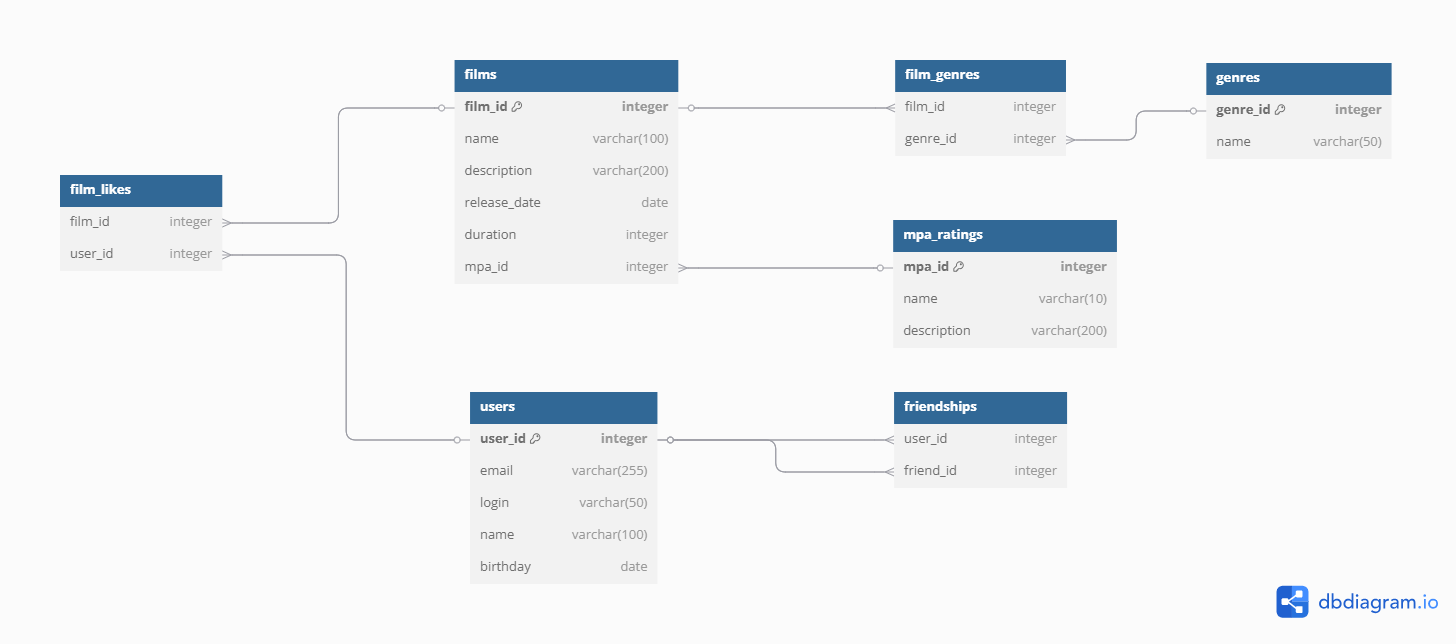
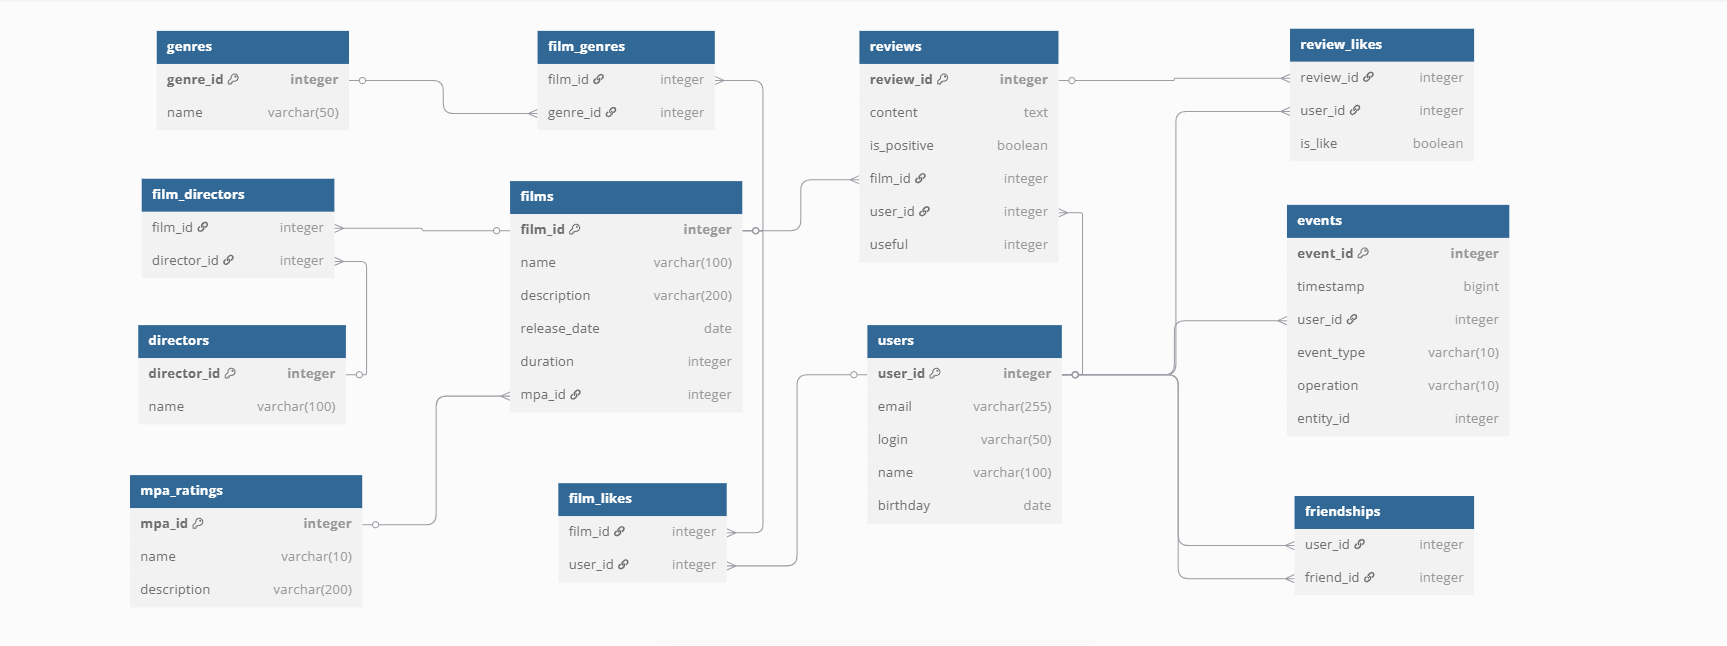
Добавлена Функциональность «Лента событий», внесены правки в readme.md

diff --git a/src/main/java/ru/yandex/practicum/filmorate/service/ReviewService.java b/src/main/java/ru/yandex/practicum/filmorate/service/ReviewService.java
@@ -4,6 +4,9 @@ import org.springframework.beans.factory.annotation.Autowired;
 import org.springframework.stereotype.Service;
 import ru.yandex.practicum.filmorate.exception.NotFoundException;
 import ru.yandex.practicum.filmorate.model.Review;
+import ru.yandex.practicum.filmorate.model.feed.Event;
+import ru.yandex.practicum.filmorate.model.feed.EventOperation;
+import ru.yandex.practicum.filmorate.model.feed.EventType;
 import ru.yandex.practicum.filmorate.storage.film.FilmDbStorage;
 import ru.yandex.practicum.filmorate.storage.review.ReviewRepository;
 import ru.yandex.practicum.filmorate.storage.user.UserDbStorage;
@@ -13,21 +16,30 @@ import java.util.List;
 @Service
 public class ReviewService {
     private final ReviewRepository repository;
+    private final EventService eventService;
 
     @Autowired
-    public ReviewService(ReviewRepository repository, FilmDbStorage storage, UserDbStorage userStorage) {
+    public ReviewService(ReviewRepository repository,
+                         FilmDbStorage storage,
+                         UserDbStorage userStorage,
+                         EventService eventService) {
         this.repository = repository;
+        this.eventService = eventService;
     }
 
     public Review addReview(Review review) {
-        return repository.addReview(review);
-    }
+        Review addedReview = repository.addReview(review);
 
-    public void deleteReviewById(int id) {
-        int rowsAffected = repository.deleteReviewById(id);
-        if (rowsAffected == 0) {
-            throw new NotFoundException("Отзыв с id: " + id + " не найден.");
-        }
+        Event event = Event.builder()
+                .timestamp(System.currentTimeMillis())
+                .userId(review.getUserId())
+                .eventType(EventType.REVIEW)
+                .operation(EventOperation.ADD)
+                .entityId(addedReview.getReviewId())
+                .build();
+        eventService.addEvent(event);
+
+        return addedReview;
     }
 
     public Review getReviewById(long id) {
@@ -35,9 +47,39 @@ public class ReviewService {
                 .orElseThrow(() -> new NotFoundException("Отзыв не найден"));
     }
 
-    public Review updateReview(Review review) {
-        return repository.updateReview(review);
+    public void deleteReviewById(int id) {
+        Review review = repository.findReviewById(id)
+                .orElseThrow(() -> new NotFoundException("Отзыв с id: " + id + " не найден."));
+        int rowsAffected = repository.deleteReviewById(id);
+        if (rowsAffected == 0) {
+            throw new NotFoundException("Отзыв с id: " + id + " не найден.");
+        }
+
+        Event event = Event.builder()
+                .timestamp(System.currentTimeMillis())
+                .userId(review.getUserId())
+                .eventType(EventType.REVIEW)
+                .operation(EventOperation.REMOVE)
+                .entityId(review.getReviewId())
+                .build();
+        eventService.addEvent(event);
     }
+
+    public Review updateReview(Review review) {
+        Review updatedReview = repository.updateReview(review);
+
+        Event event = Event.builder()
+                .timestamp(System.currentTimeMillis())
+                .userId(review.getUserId())
+                .eventType(EventType.REVIEW)
+                .operation(EventOperation.UPDATE)
+                .entityId(review.getReviewId())
+                .build();
+        eventService.addEvent(event);
+
+        return updatedReview;
+    }
+
 
     public List<Review> getReviews(Integer filmId, int count) {
         if (count <= 0) {

diff --git a/src/main/java/ru/yandex/practicum/filmorate/service/FilmService.java b/src/main/java/ru/yandex/practicum/filmorate/service/FilmService.java
@@ -7,6 +7,9 @@ import org.springframework.util.CollectionUtils;
 import ru.yandex.practicum.filmorate.exception.NotFoundException;
 import ru.yandex.practicum.filmorate.exception.ValidationException;
 import ru.yandex.practicum.filmorate.model.*;
+import ru.yandex.practicum.filmorate.model.feed.Event;
+import ru.yandex.practicum.filmorate.model.feed.EventOperation;
+import ru.yandex.practicum.filmorate.model.feed.EventType;
 import ru.yandex.practicum.filmorate.storage.director.DirectorStorage;
 import ru.yandex.practicum.filmorate.storage.film.FilmStorage;
 import ru.yandex.practicum.filmorate.storage.genre.GenreStorage;
@@ -25,18 +28,21 @@ public class FilmService {
     private final MpaStorage mpaStorage;
     private final GenreStorage genreStorage;
     private final DirectorStorage directorStorage;
+    private final EventService eventService;
 
     @Autowired
     public FilmService(FilmStorage filmStorage,
                        UserStorage userStorage,
                        MpaStorage mpaStorage,
                        GenreStorage genreStorage,
-                       DirectorStorage directorStorage) {
+                       DirectorStorage directorStorage,
+                       EventService eventService) {
         this.filmStorage = filmStorage;
         this.userStorage = userStorage;
         this.mpaStorage = mpaStorage;
         this.genreStorage = genreStorage;
         this.directorStorage = directorStorage;
+        this.eventService = eventService;
     }
 
     public Film addFilm(Film film) {
@@ -99,6 +105,17 @@ public class FilmService {
             throw new NotFoundException("Пользователь не найден");
         }
         filmStorage.addLike(filmId, userId);
+
+        // Добавляем событие
+        Event event = Event.builder()
+                .timestamp(System.currentTimeMillis())
+                .userId(userId)
+                .eventType(EventType.LIKE)
+                .operation(EventOperation.ADD)
+                .entityId(filmId)
+                .build();
+        eventService.addEvent(event);
+
         log.info("Пользователь {} поставил лайк фильму {}", userId, filmId);
     }
 
@@ -112,6 +129,17 @@ public class FilmService {
             throw new NotFoundException("Пользователь не найден");
         }
         filmStorage.removeLike(filmId, userId);
+
+        // Добавляем событие
+        Event event = Event.builder()
+                .timestamp(System.currentTimeMillis())
+                .userId(userId)
+                .eventType(EventType.LIKE)
+                .operation(EventOperation.REMOVE)
+                .entityId(filmId)
+                .build();
+        eventService.addEvent(event);
+
         log.info("Пользователь {} удалил лайк у фильма {}", userId, filmId);
     }
 

diff --git a/src/main/java/ru/yandex/practicum/filmorate/service/UserService.java b/src/main/java/ru/yandex/practicum/filmorate/service/UserService.java
@@ -6,6 +6,9 @@ import org.springframework.stereotype.Service;
 import ru.yandex.practicum.filmorate.exception.NotFoundException;
 import ru.yandex.practicum.filmorate.model.Film;
 import ru.yandex.practicum.filmorate.model.User;
+import ru.yandex.practicum.filmorate.model.feed.Event;
+import ru.yandex.practicum.filmorate.model.feed.EventOperation;
+import ru.yandex.practicum.filmorate.model.feed.EventType;
 import ru.yandex.practicum.filmorate.storage.user.UserStorage;
 
 import java.util.ArrayList;
@@ -18,11 +21,14 @@ import java.util.Optional;
 public class UserService {
     private final UserStorage userStorage;
     private final RecommendationService recommendationService;
+    private final EventService eventService;
 
     @Autowired
-    public UserService(UserStorage userStorage, RecommendationService recommendationService) {
+    public UserService(UserStorage userStorage, RecommendationService recommendationService, EventService eventService) {
         this.userStorage = userStorage;
         this.recommendationService = recommendationService;
+        this.eventService = eventService;
+
     }
 
     public User addUser(User user) {
@@ -63,6 +69,16 @@ public class UserService {
             throw new NotFoundException("Отсутствует друг");
         }
         userStorage.addFriend(userId, friendId);
+
+        Event event = Event.builder()
+                .timestamp(System.currentTimeMillis())
+                .userId(userId)
+                .eventType(EventType.FRIEND)
+                .operation(EventOperation.ADD)
+                .entityId(friendId)
+                .build();
+        eventService.addEvent(event);
+
         log.info("Пользователь {} добавил в друзья пользователя {}", userId, friendId);
     }
 
@@ -76,6 +92,16 @@ public class UserService {
             throw new NotFoundException("Отсутствует друг");
         }
         userStorage.removeFriend(userId, friendId);
+
+        Event event = Event.builder()
+                .timestamp(System.currentTimeMillis())
+                .userId(userId)
+                .eventType(EventType.FRIEND)
+                .operation(EventOperation.REMOVE)
+                .entityId(friendId)
+                .build();
+        eventService.addEvent(event);
+
         log.info("Пользователь {} удалил из друзей пользователя {}", userId, friendId);
     }
 

diff --git a/src/main/java/ru/yandex/practicum/filmorate/storage/event/EventDbStorage.java b/src/main/java/ru/yandex/practicum/filmorate/storage/event/EventDbStorage.java
@@ -1,0 +1,52 @@
+package ru.yandex.practicum.filmorate.storage.event;
+
+import lombok.RequiredArgsConstructor;
+import org.springframework.jdbc.core.JdbcTemplate;
+import org.springframework.stereotype.Repository;
+import ru.yandex.practicum.filmorate.model.feed.Event;
+import ru.yandex.practicum.filmorate.model.feed.EventOperation;
+import ru.yandex.practicum.filmorate.model.feed.EventType;
+
+import java.sql.ResultSet;
+import java.sql.SQLException;
+import java.util.List;
+
+@Repository
+@RequiredArgsConstructor
+public class EventDbStorage implements EventStorage {
+    private final JdbcTemplate jdbcTemplate;
+
+    @Override
+    public List<Event> getEventsByUserId(int userId) {
+        String sql = "SELECT * FROM events WHERE user_id = ? ORDER BY timestamp";
+        return jdbcTemplate.query(sql, this::mapRowToEvent, userId);
+    }
+
+    @Override
+    public Event addEvent(Event event) {
+        String sql = "INSERT INTO events (timestamp, user_id, event_type, operation, entity_id) " +
+                     "VALUES (?, ?, ?, ?, ?)";
+        jdbcTemplate.update(sql,
+                event.getTimestamp(),
+                event.getUserId(),
+                event.getEventType().toString(),
+                event.getOperation().toString(),
+                event.getEntityId());
+
+        Integer eventId = jdbcTemplate.queryForObject("SELECT event_id FROM events ORDER BY event_id DESC LIMIT 1",
+                Integer.class);
+        event.setEventId(eventId);
+        return event;
+    }
+
+    private Event mapRowToEvent(ResultSet rs, int rowNum) throws SQLException {
+        return Event.builder()
+                .eventId(rs.getInt("event_id"))
+                .timestamp(rs.getLong("timestamp"))
+                .userId(rs.getInt("user_id"))
+                .eventType(EventType.valueOf(rs.getString("event_type")))
+                .operation(EventOperation.valueOf(rs.getString("operation")))
+                .entityId(rs.getInt("entity_id"))
+                .build();
+    }
+}

diff --git a/src/main/java/ru/yandex/practicum/filmorate/controller/EventController.java b/src/main/java/ru/yandex/practicum/filmorate/controller/EventController.java
@@ -1,0 +1,23 @@
+package ru.yandex.practicum.filmorate.controller;
+
+import lombok.RequiredArgsConstructor;
+import org.springframework.web.bind.annotation.GetMapping;
+import org.springframework.web.bind.annotation.PathVariable;
+import org.springframework.web.bind.annotation.RequestMapping;
+import org.springframework.web.bind.annotation.RestController;
+import ru.yandex.practicum.filmorate.model.feed.Event;
+import ru.yandex.practicum.filmorate.service.EventService;
+
+import java.util.List;
+
+@RestController
+@RequestMapping("/users")
+@RequiredArgsConstructor
+public class EventController {
+    private final EventService eventService;
+
+    @GetMapping("/{id}/feed")
+    public List<Event> getFeed(@PathVariable int id) {
+        return eventService.getEventsByUserId(id);
+    }
+}

diff --git a/src/main/java/ru/yandex/practicum/filmorate/service/EventService.java b/src/main/java/ru/yandex/practicum/filmorate/service/EventService.java
@@ -1,0 +1,22 @@
+package ru.yandex.practicum.filmorate.service;
+
+import lombok.RequiredArgsConstructor;
+import org.springframework.stereotype.Service;
+import ru.yandex.practicum.filmorate.model.feed.Event;
+import ru.yandex.practicum.filmorate.storage.event.EventStorage;
+
+import java.util.List;
+
+@Service
+@RequiredArgsConstructor
+public class EventService {
+    private final EventStorage eventStorage;
+
+    public List<Event> getEventsByUserId(int userId) {
+        return eventStorage.getEventsByUserId(userId);
+    }
+
+    public void addEvent(Event event) {  // Изменили возвращаемый тип на void
+        eventStorage.addEvent(event);
+    }
+}

diff --git a/src/main/java/ru/yandex/practicum/filmorate/model/feed/Event.java b/src/main/java/ru/yandex/practicum/filmorate/model/feed/Event.java
@@ -1,0 +1,15 @@
+package ru.yandex.practicum.filmorate.model.feed;
+
+import lombok.Builder;
+import lombok.Data;
+
+@Data
+@Builder
+public class Event {
+    private Long timestamp;
+    private Integer userId;
+    private EventType eventType;
+    private EventOperation operation;
+    private Integer eventId;
+    private Integer entityId;
+}

diff --git a/src/main/java/ru/yandex/practicum/filmorate/storage/event/EventStorage.java b/src/main/java/ru/yandex/practicum/filmorate/storage/event/EventStorage.java
@@ -1,0 +1,11 @@
+package ru.yandex.practicum.filmorate.storage.event;
+
+import ru.yandex.practicum.filmorate.model.feed.Event;
+
+import java.util.List;
+
+public interface EventStorage {
+    List<Event> getEventsByUserId(int userId);
+
+    Event addEvent(Event event);
+}

diff --git a/src/main/java/ru/yandex/practicum/filmorate/model/feed/EventOperation.java b/src/main/java/ru/yandex/practicum/filmorate/model/feed/EventOperation.java
@@ -1,0 +1,7 @@
+package ru.yandex.practicum.filmorate.model.feed;
+
+public enum EventOperation {
+    REMOVE,
+    ADD,
+    UPDATE
+}

diff --git a/src/main/java/ru/yandex/practicum/filmorate/model/feed/EventType.java b/src/main/java/ru/yandex/practicum/filmorate/model/feed/EventType.java
@@ -1,0 +1,7 @@
+package ru.yandex.practicum.filmorate.model.feed;
+
+public enum EventType {
+    LIKE,
+    REVIEW,
+    FRIEND
+}

diff --git a/README.md b/README.md
@@ -7,11 +7,22 @@ Template repository for Filmorate project.
 
 ## Описание схемы базы данных
 
-
+Основные таблицы:
 - **users** - информация о пользователях
 - **films** - данные о фильмах
-- **mpa_ratings** - рейтинги
+- **mpa_ratings** - рейтинги MPA
 - **genres** - жанры фильмов
+- **directors** - режиссеры фильмов
+
+Связующие таблицы:
 - **film_genres** - связь фильмов и жанров
 - **film_likes** - лайки пользователей
 - **friendships** - дружба
+- **film_directors** - связь фильмов и режиссеров
+
+Отзывы и лайки:
+- **reviews** - отзывы пользователей на фильмы
+- **review_likes** - реакции пользователей на отзывы (лайки/дизлайки)
+
+Лента событий:
+- **events** - история действий пользователей
